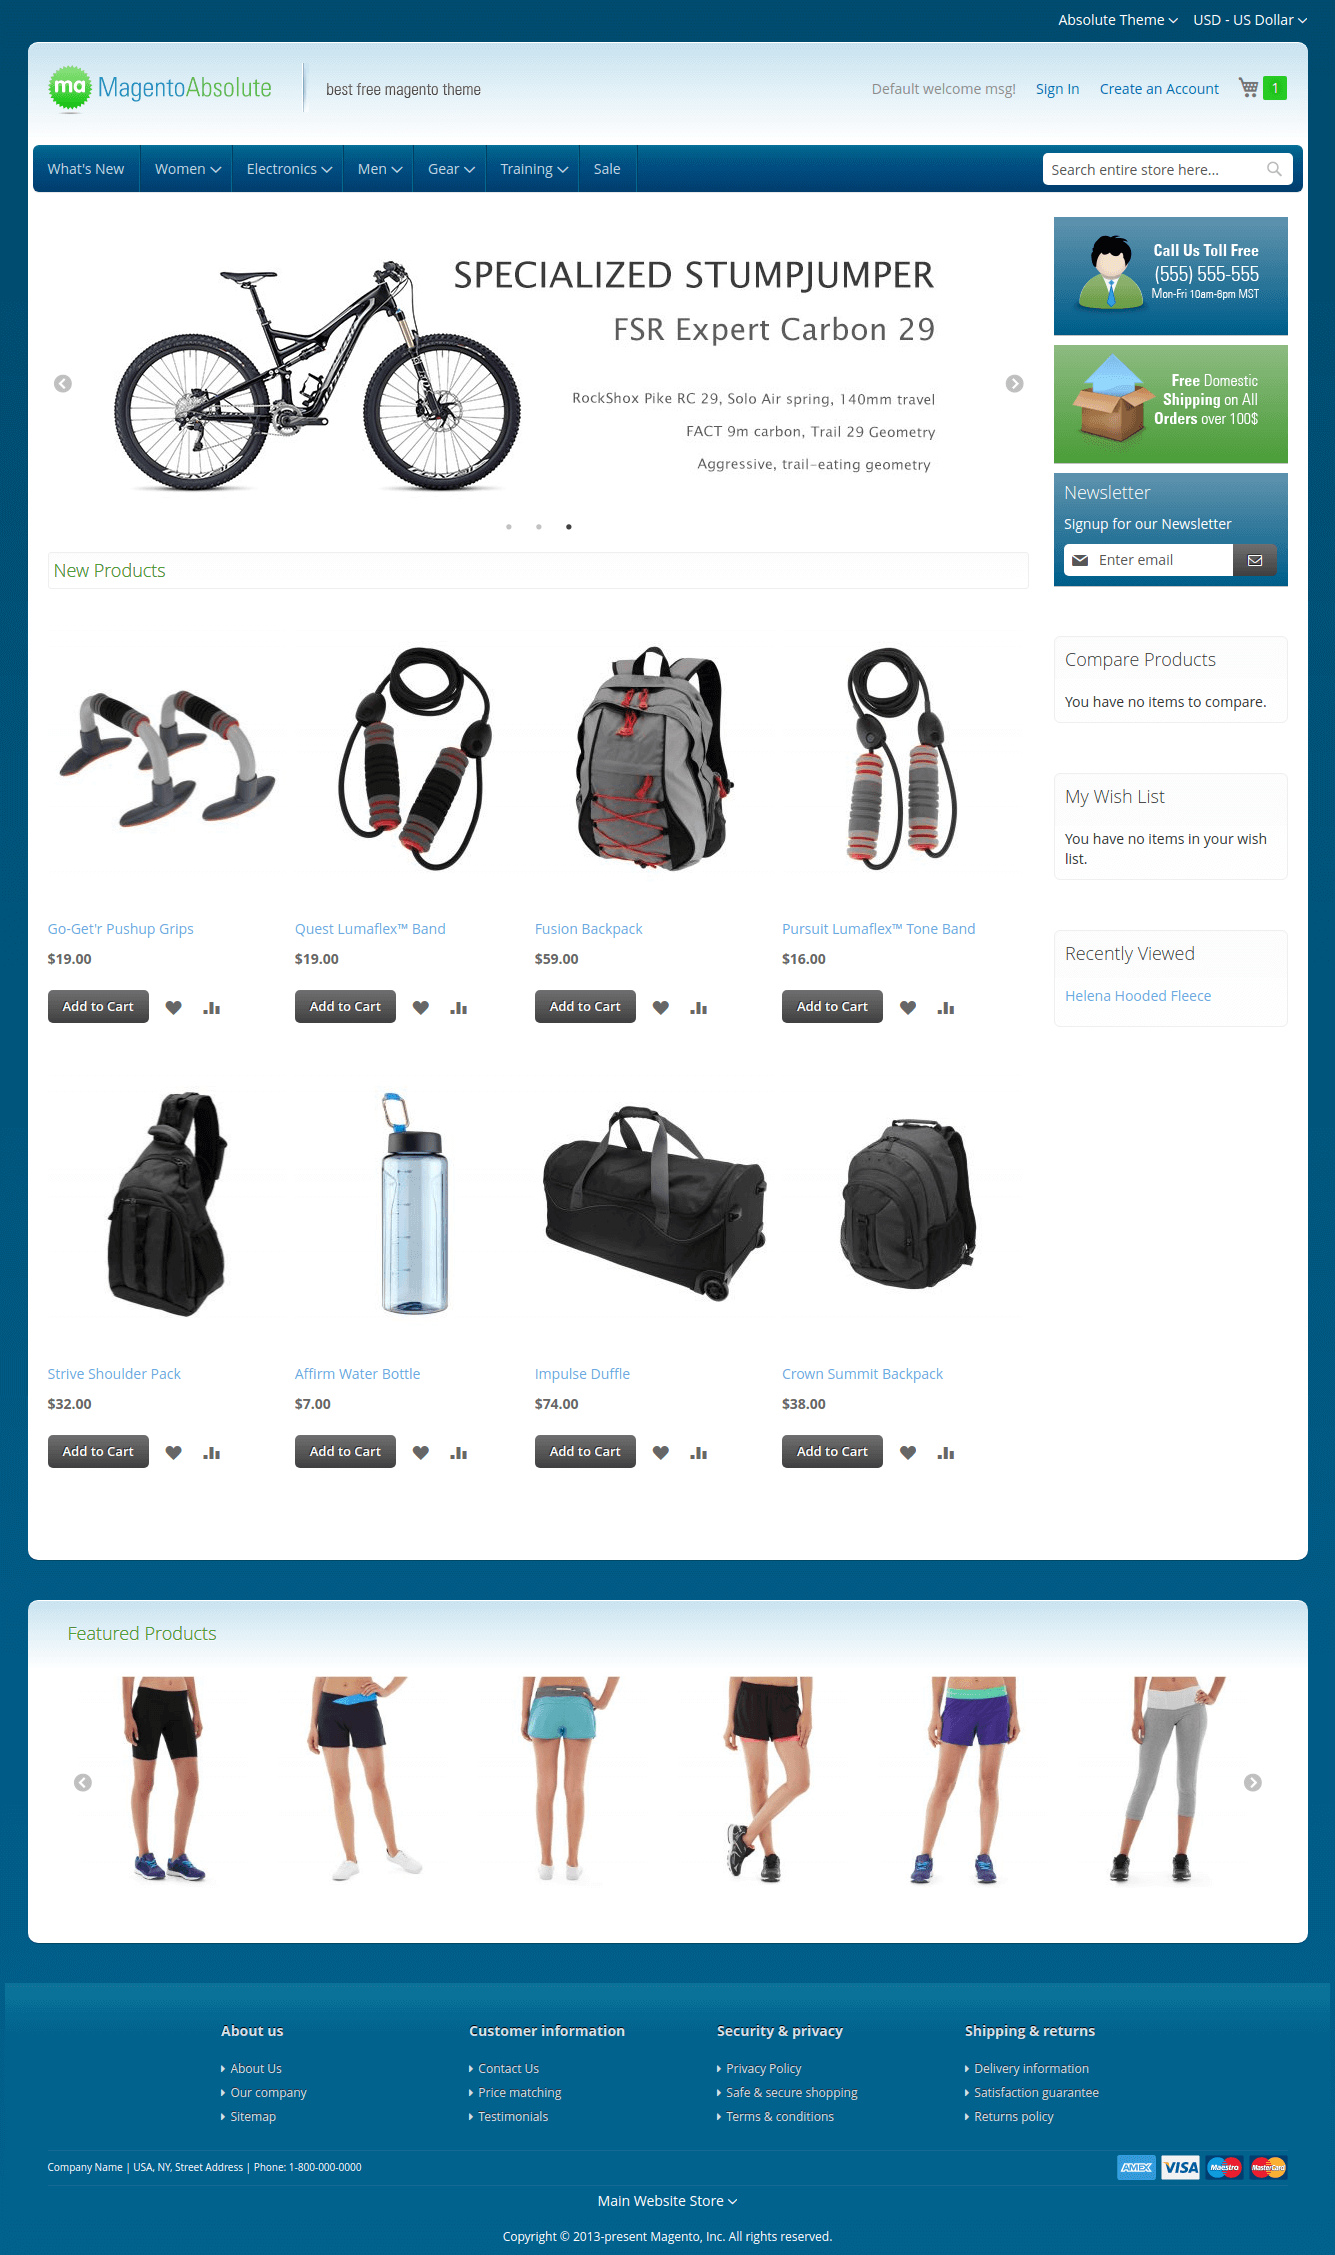
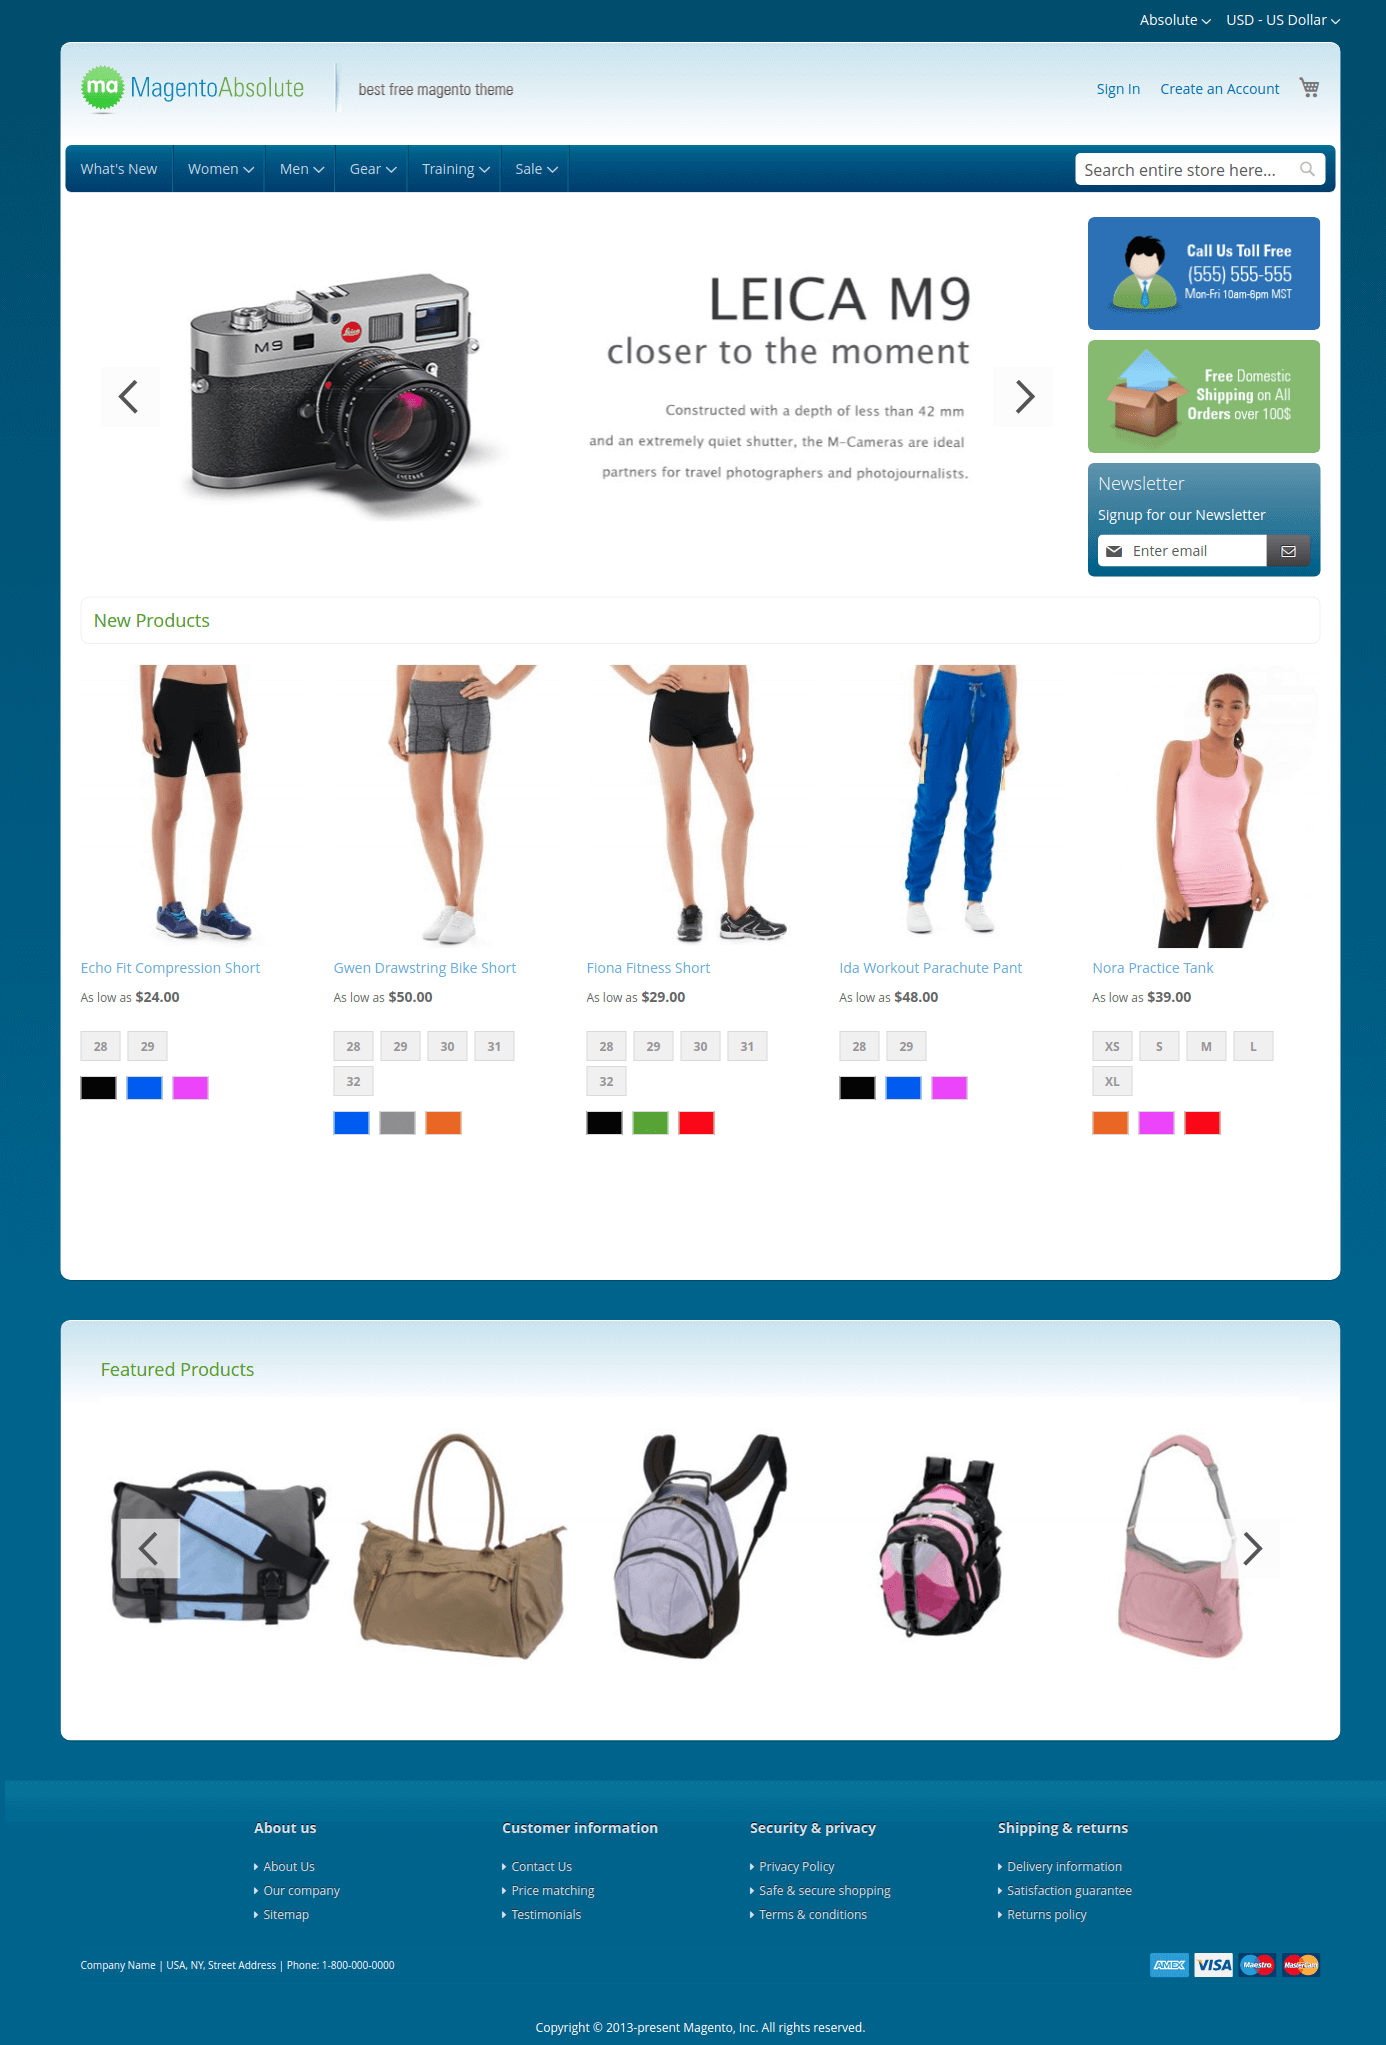
Absolute theme 1.4.0

diff --git a/m2/themes/absolute/index.md b/m2/themes/absolute/index.md
@@ -2,8 +2,7 @@
 layout: default
 title: Absolute Theme
 description: Absolute Theme documentation
-keywords: >
-    magento 2 free responsive theme
+keywords: magento 2 free responsive theme
 category: Absolute Theme
 ---
 
@@ -13,8 +12,6 @@ category: Absolute Theme
 
 ### Contents
 
--  [Installation](installation/)
--  [Changelog](changelog/)
--  [**Theme editor**](theme-editor/)
--  [Page structure manuals](page-structure/)
-   -  [Homepage](page-structure/homepage/)
+ -  [Installation](installation/)
+ -  [Changelog](changelog/)
+ -  [Theme editor](theme-editor/)

diff --git a/m2/themes/absolute/changelog.md b/m2/themes/absolute/changelog.md
@@ -6,6 +6,14 @@ category: Absolute Theme
 
 # Changelog
 
+### Version 1.4.0
+
+> Aug 17, 2021
+
+ -  Pagebuilder support added.
+ -  Homepage content was rewritten with pagebuilder module.
+ -  Homepage layout updated to use 1-column layout.
+
 ### Version 1.3.4
 
 > Feb 17, 2020

diff --git a/m2/themes/absolute/theme-editor/index.md b/m2/themes/absolute/theme-editor/index.md
@@ -27,5 +27,3 @@ The following sections parameters can be easily changed:
 ##### Next up
 
  -  [Absolute Theme docs homepage](/m2/themes/absolute/)
- -  [Page structure manuals](/m2/themes/absolute/page-structure/)
-    -  [Homepage](/m2/themes/absolute/page-structure/homepage/)
